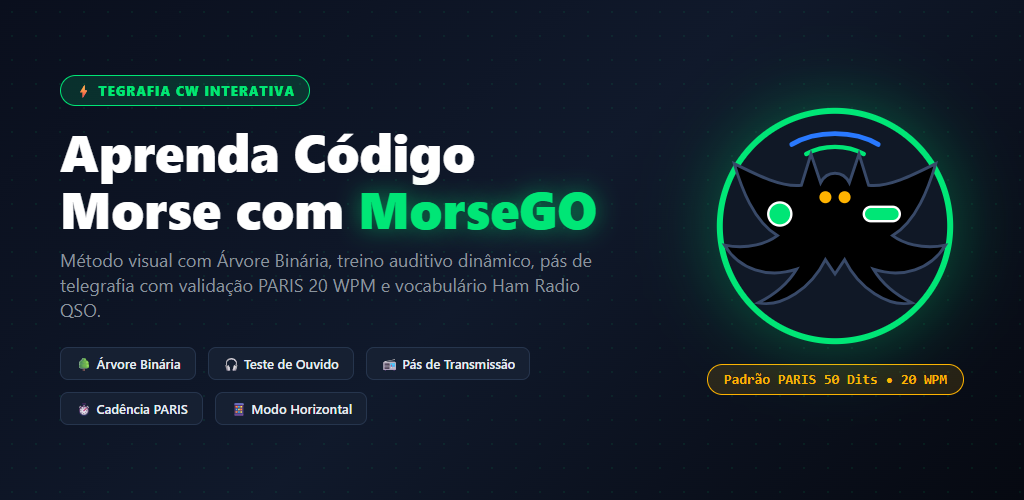
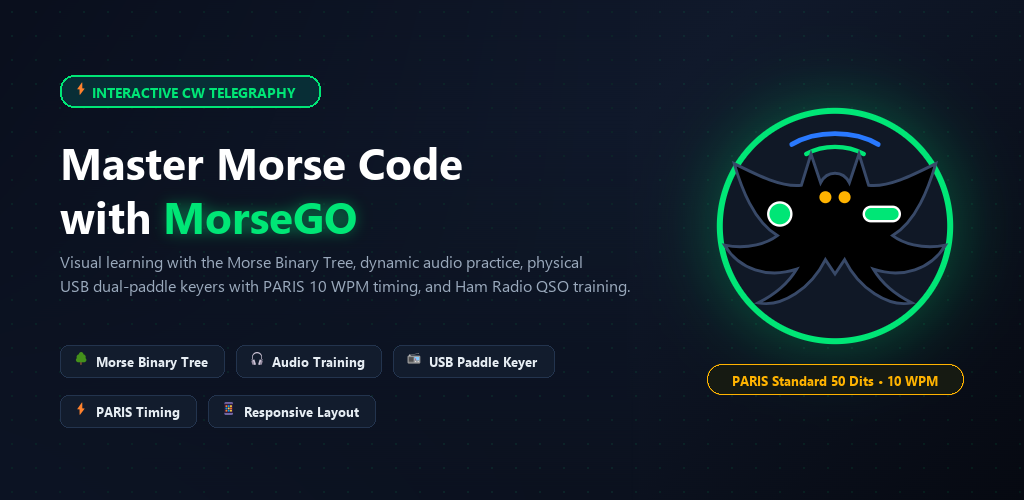
docs(playstore): update feature graphic (1024x500) to English with 10 WPM PARIS badge

diff --git a/tools/generate_english_feature_graphic.py b/tools/generate_english_feature_graphic.py
@@ -1,0 +1,196 @@
+import os
+from PIL import Image, ImageDraw, ImageFont, ImageFilter
+
+def generate_english_feature_graphic():
+    orig_path = "docs/playstore/playstore_feature_graphic_1024x500.png"
+    im = Image.open(orig_path).convert("RGBA")
+    
+    # First, restore pure original image from git or memory
+    import subprocess
+    orig_bytes = subprocess.check_output(['git', 'show', 'HEAD:docs/playstore/playstore_feature_graphic_1024x500.png'])
+    import io
+    im = Image.open(io.BytesIO(orig_bytes)).convert("RGBA")
+    
+    w, h = 1024, 500
+    bg_clean = Image.new("RGBA", (w, h), (0, 0, 0, 0))
+    
+    # Sample the boundary column at x=640 from the original image
+    boundary_colors = [im.getpixel((640, y)) for y in range(h)]
+    
+    # Generate smooth gradient matching top-left (10, 15, 29) transitioning to boundary at x=630
+    for y in range(h):
+        t_y = y / float(h)
+        # Left edge color for row y
+        left_r = 10.0 + 3.0 * t_y
+        left_g = 15.0 + 5.0 * t_y
+        left_b = 29.0 + 7.0 * t_y
+        
+        # Right boundary color for row y
+        br, bg, bb, _ = boundary_colors[y]
+        
+        for x in range(650):
+            t_x = x / 630.0
+            r = left_r + (br - left_r) * t_x
+            g = left_g + (bg - left_g) * t_x
+            b = left_b + (bb - left_b) * t_x
+            
+            if x <= 620:
+                alpha = 255
+            elif x < 645:
+                alpha = int(255 * (1.0 - (x - 620) / 25.0))
+            else:
+                alpha = 0
+                
+            bg_clean.putpixel((x, y), (int(r), int(g), int(b), alpha))
+            
+    # Draw the 24px dot grid on the cleaned area
+    for y in range(11, h, 24):
+        for x in range(11, 640, 24):
+            t_x = x / 630.0
+            t_y = y / float(h)
+            dot_r = int(10 + 3.0 * t_x)
+            dot_g = int(33 + 3.0 * t_x)
+            dot_b = int(38 + 3.0 * t_x)
+            
+            if x <= 620:
+                alpha = 255
+            elif x < 640:
+                alpha = int(255 * (1.0 - (x - 620) / 20.0))
+            else:
+                alpha = 0
+                
+            dot_color = (dot_r, dot_g, dot_b, alpha)
+            for dx in [0, 1]:
+                for dy in [0, 1]:
+                    if x + dx < 645 and y + dy < h and alpha > 0:
+                        bg_clean.putpixel((x + dx, y + dy), dot_color)
+                        
+    # Paste clean background with alpha mask onto original
+    im.paste(bg_clean, (0, 0), bg_clean)
+    
+    # 2. Render typography and badges
+    draw = ImageDraw.Draw(im)
+    
+    font_bold = "C:\\Windows\\Fonts\\segoeuib.ttf"
+    font_reg = "C:\\Windows\\Fonts\\segoeui.ttf"
+    font_semi = "C:\\Windows\\Fonts\\segoeuisb.ttf" if os.path.exists("C:\\Windows\\Fonts\\segoeuisb.ttf") else font_bold
+    font_emoji = "C:\\Windows\\Fonts\\seguiemj.ttf"
+    
+    f_badge = ImageFont.truetype(font_bold, 14)
+    f_badge_emoji = ImageFont.truetype(font_emoji, 13)
+    
+    f_title = ImageFont.truetype(font_bold, 44)
+    f_sub = ImageFont.truetype(font_reg, 16)
+    
+    f_pill = ImageFont.truetype(font_semi, 13)
+    f_pill_emoji = ImageFont.truetype(font_emoji, 13)
+    
+    f_amber = ImageFont.truetype(font_bold, 13)
+    
+    # --- Top Pill Badge: "⚡ INTERACTIVE CW TELEGRAPHY" ---
+    bx, by = 60, 75
+    badge_label = "INTERACTIVE CW TELEGRAPHY"
+    bbox_l = draw.textbbox((0, 0), badge_label, font=f_badge)
+    lw = bbox_l[2] - bbox_l[0]
+    lh = bbox_l[3] - bbox_l[1]
+    
+    badge_w = 20 + 8 + lw + 28
+    badge_h = 32
+    draw.rounded_rectangle(
+        [bx, by, bx + badge_w, by + badge_h],
+        radius=14,
+        fill=(8, 46, 54, 255),
+        outline=(0, 230, 118, 255),
+        width=2
+    )
+    # Draw lightning bolt emoji
+    draw.text((bx + 12, by + 8), "⚡", font=f_badge_emoji, embedded_color=True)
+    draw.text((bx + 32, by + 7), badge_label, font=f_badge, fill=(0, 230, 118, 255))
+    
+    # --- Title: "Master Morse Code \n with MorseGO" ---
+    tx, ty1 = 60, 132
+    draw.text((tx, ty1), "Master Morse Code", font=f_title, fill=(255, 255, 255, 255))
+    
+    ty2 = ty1 + 54
+    draw.text((tx, ty2), "with ", font=f_title, fill=(255, 255, 255, 255))
+    bbox_with = draw.textbbox((tx, ty2), "with ", font=f_title)
+    mg_x = bbox_with[2]
+    
+    # Neon glow for MorseGO
+    glow_img = Image.new("RGBA", (w, h), (0, 0, 0, 0))
+    glow_draw = ImageDraw.Draw(glow_img)
+    for off_x in range(-5, 6):
+        for off_y in range(-5, 6):
+            glow_draw.text((mg_x + off_x, ty2 + off_y), "MorseGO", font=f_title, fill=(0, 230, 118, 70))
+    glow_blurred = glow_img.filter(ImageFilter.GaussianBlur(radius=8))
+    im = Image.alpha_composite(im, glow_blurred)
+    draw = ImageDraw.Draw(im)
+    draw.text((mg_x, ty2), "MorseGO", font=f_title, fill=(0, 230, 118, 255))
+    
+    # --- Subtitle ---
+    sub_lines = [
+        "Visual learning with the Morse Binary Tree, dynamic audio practice, physical",
+        "USB dual-paddle keyers with PARIS 10 WPM timing, and Ham Radio QSO training."
+    ]
+    sy = ty2 + 64
+    for line in sub_lines:
+        draw.text((tx, sy), line, font=f_sub, fill=(154, 169, 188, 255))
+        sy += 24
+        
+    # --- Feature Pills ---
+    pills_row1 = [
+        ("🌳", "Morse Binary Tree"),
+        ("🎧", "Audio Training"),
+        ("📻", "USB Paddle Keyer")
+    ]
+    pills_row2 = [
+        ("⚡", "PARIS Timing"),
+        ("📱", "Responsive Layout")
+    ]
+    
+    def draw_pills_row(pills, start_x, start_y):
+        cur_x = start_x
+        for emoji, label in pills:
+            bbox = draw.textbbox((0, 0), label, font=f_pill)
+            text_w = bbox[2] - bbox[0]
+            text_h = bbox[3] - bbox[1]
+            
+            box_w = 14 + 18 + 6 + text_w + 14
+            box_h = 32
+            draw.rounded_rectangle(
+                [cur_x, start_y, cur_x + box_w, start_y + box_h],
+                radius=8,
+                fill=(18, 28, 45, 255),
+                outline=(35, 52, 78, 255),
+                width=1
+            )
+            draw.text((cur_x + 12, start_y + 8), emoji, font=f_pill_emoji, embedded_color=True)
+            draw.text((cur_x + 36, start_y + 7), label, font=f_pill, fill=(230, 237, 243, 255))
+            cur_x += box_w + 12
+            
+    draw_pills_row(pills_row1, tx, 345)
+    draw_pills_row(pills_row2, tx, 395)
+    
+    # --- Amber Pill under Bat Logo on the Right ---
+    # Exact coordinates of original: x: 707 to 963 (width: 256), y: 364 to 394 (height: 30)
+    ax, ay, aw, ah = 707, 364, 256, 30
+    draw.rounded_rectangle(
+        [ax, ay, ax + aw, ay + ah],
+        radius=15,
+        fill=(22, 26, 18, 255),
+        outline=(255, 179, 0, 255),
+        width=1
+    )
+    amber_text = "PARIS Standard 50 Dits • 10 WPM"
+    bbox_a = draw.textbbox((0, 0), amber_text, font=f_amber)
+    text_aw = bbox_a[2] - bbox_a[0]
+    text_ax = ax + (aw - text_aw) // 2
+    draw.text((text_ax, ay + 7), amber_text, font=f_amber, fill=(255, 179, 0, 255))
+    
+    # Convert to RGB and save
+    out_img = im.convert("RGB")
+    out_img.save("docs/playstore/playstore_feature_graphic_1024x500.png", "PNG", optimize=True)
+    print("[OK] Successfully generated English feature graphic at docs/playstore/playstore_feature_graphic_1024x500.png")
+
+if __name__ == "__main__":
+    generate_english_feature_graphic()
